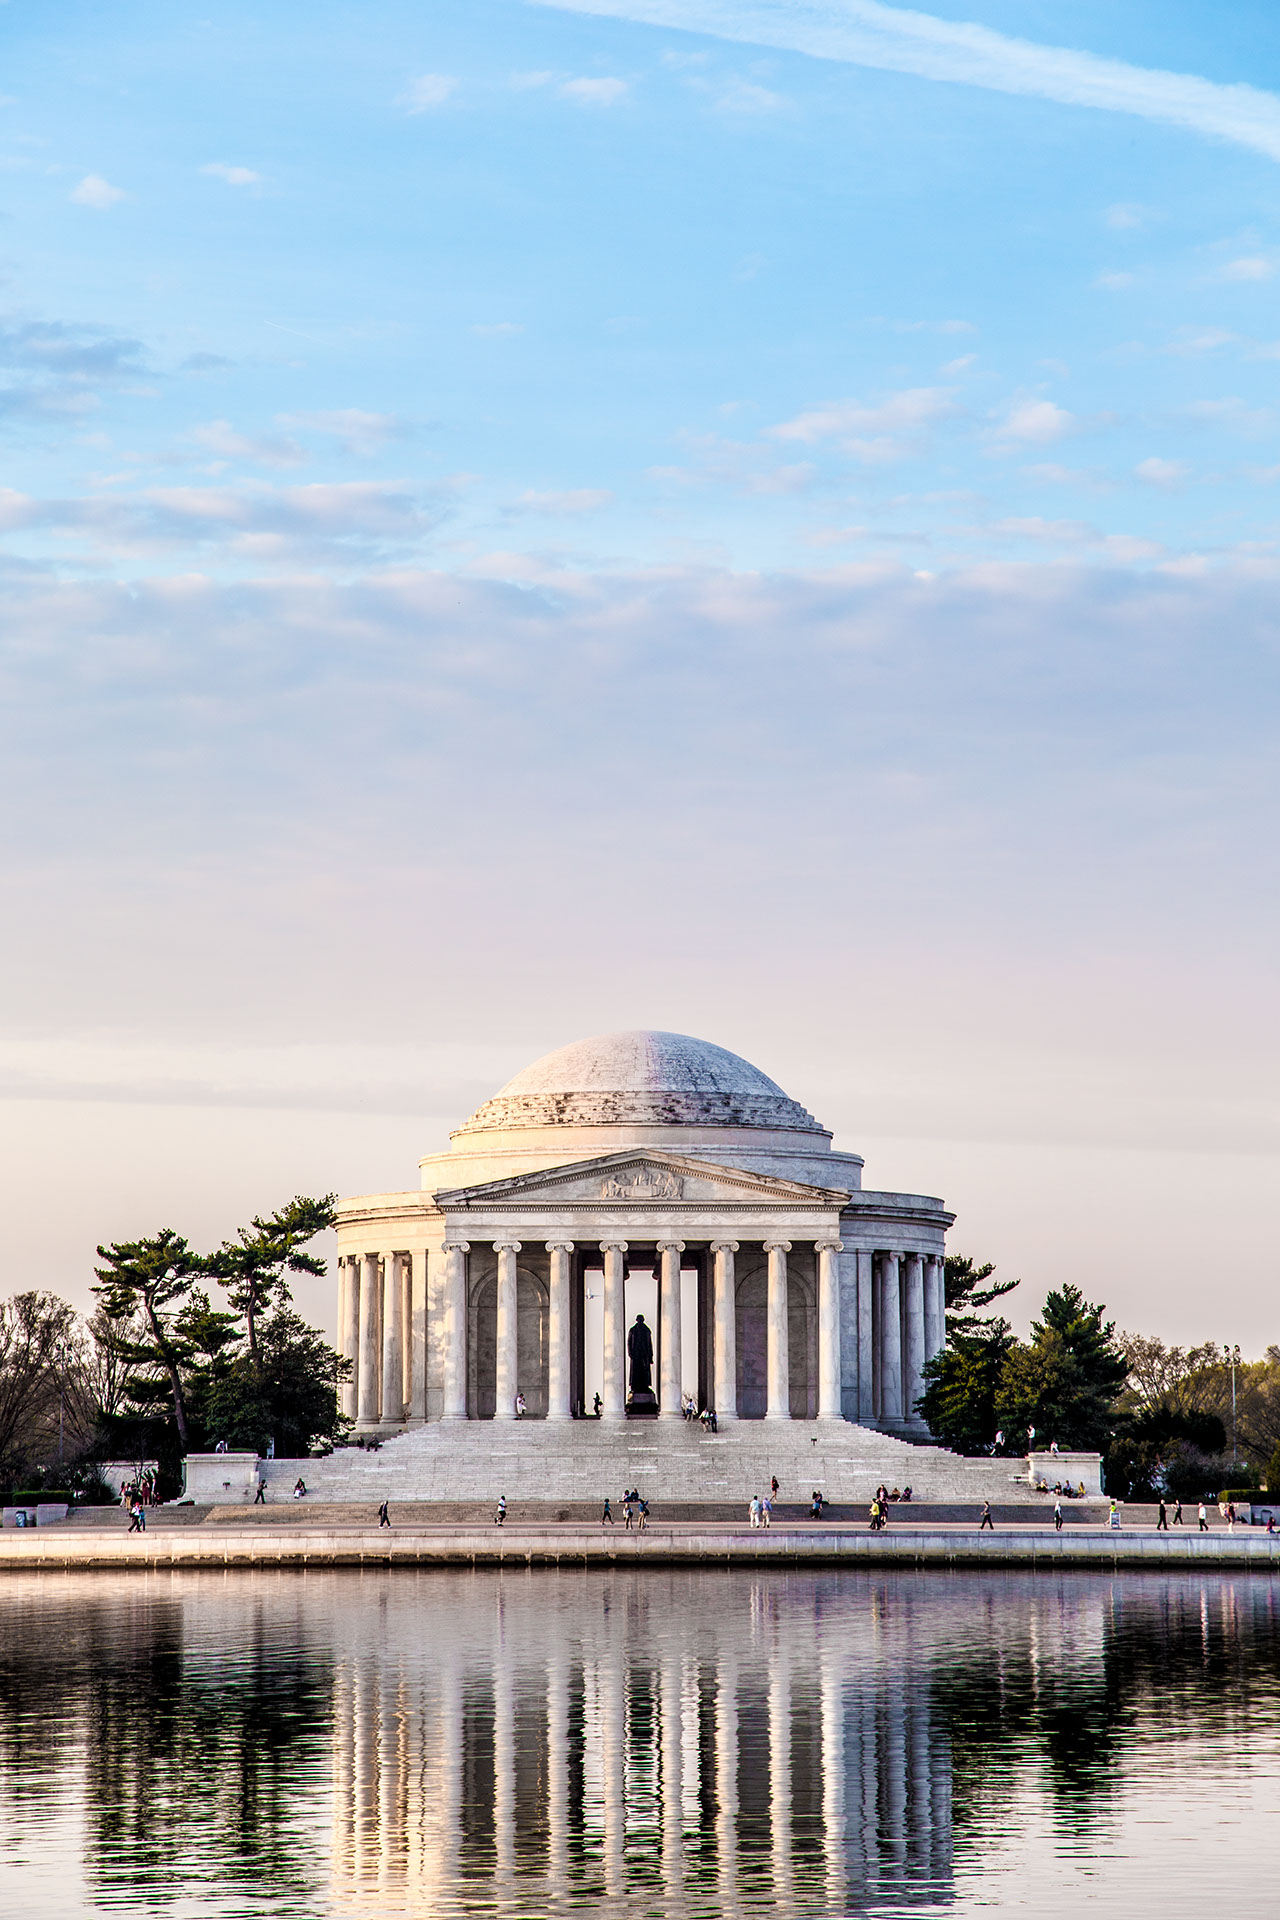
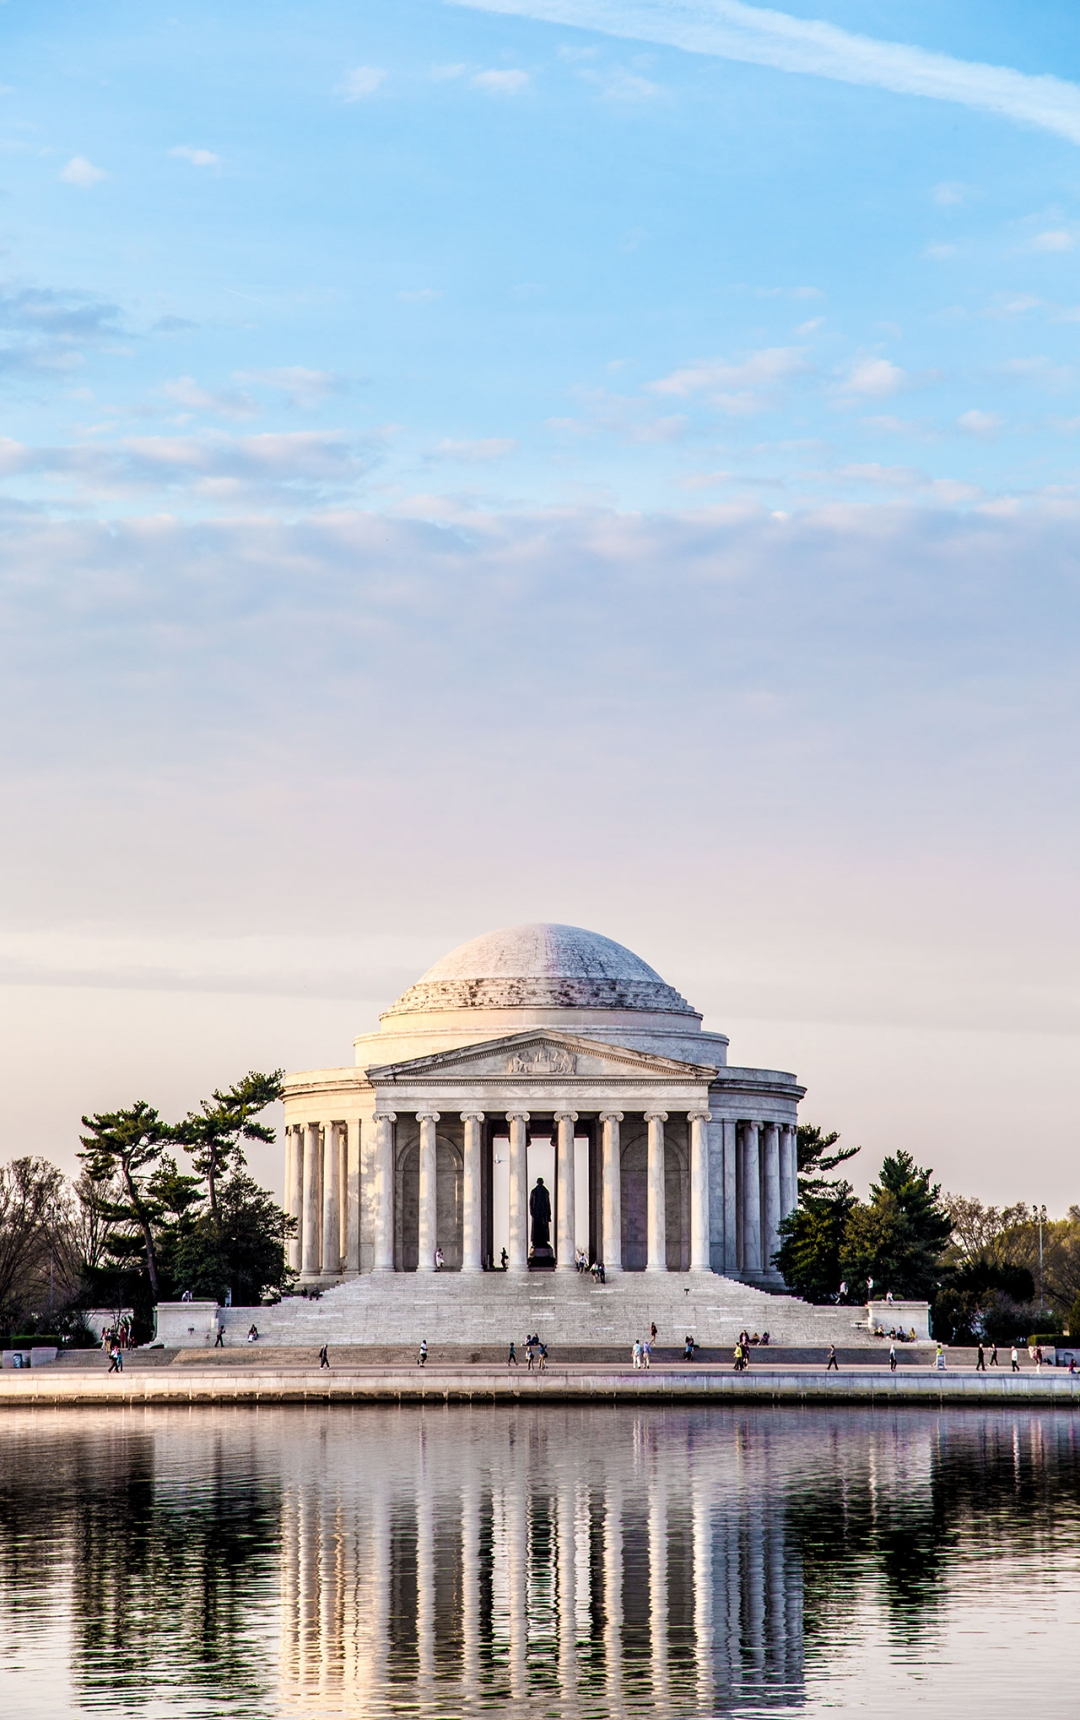
smaller images

diff --git a/public/index.html b/public/index.html
@@ -75,7 +75,7 @@
         </div>
     </section>
     <section class="content-24 bg-midnight-blue">
-        <img class="image" src="startup/common-files/img/supremecourt.jpg" alt="">
+        <img class="image" src="startup/common-files/img/courtweb.jpg" alt="">
 
         <div class="container">
             <div class="row">
